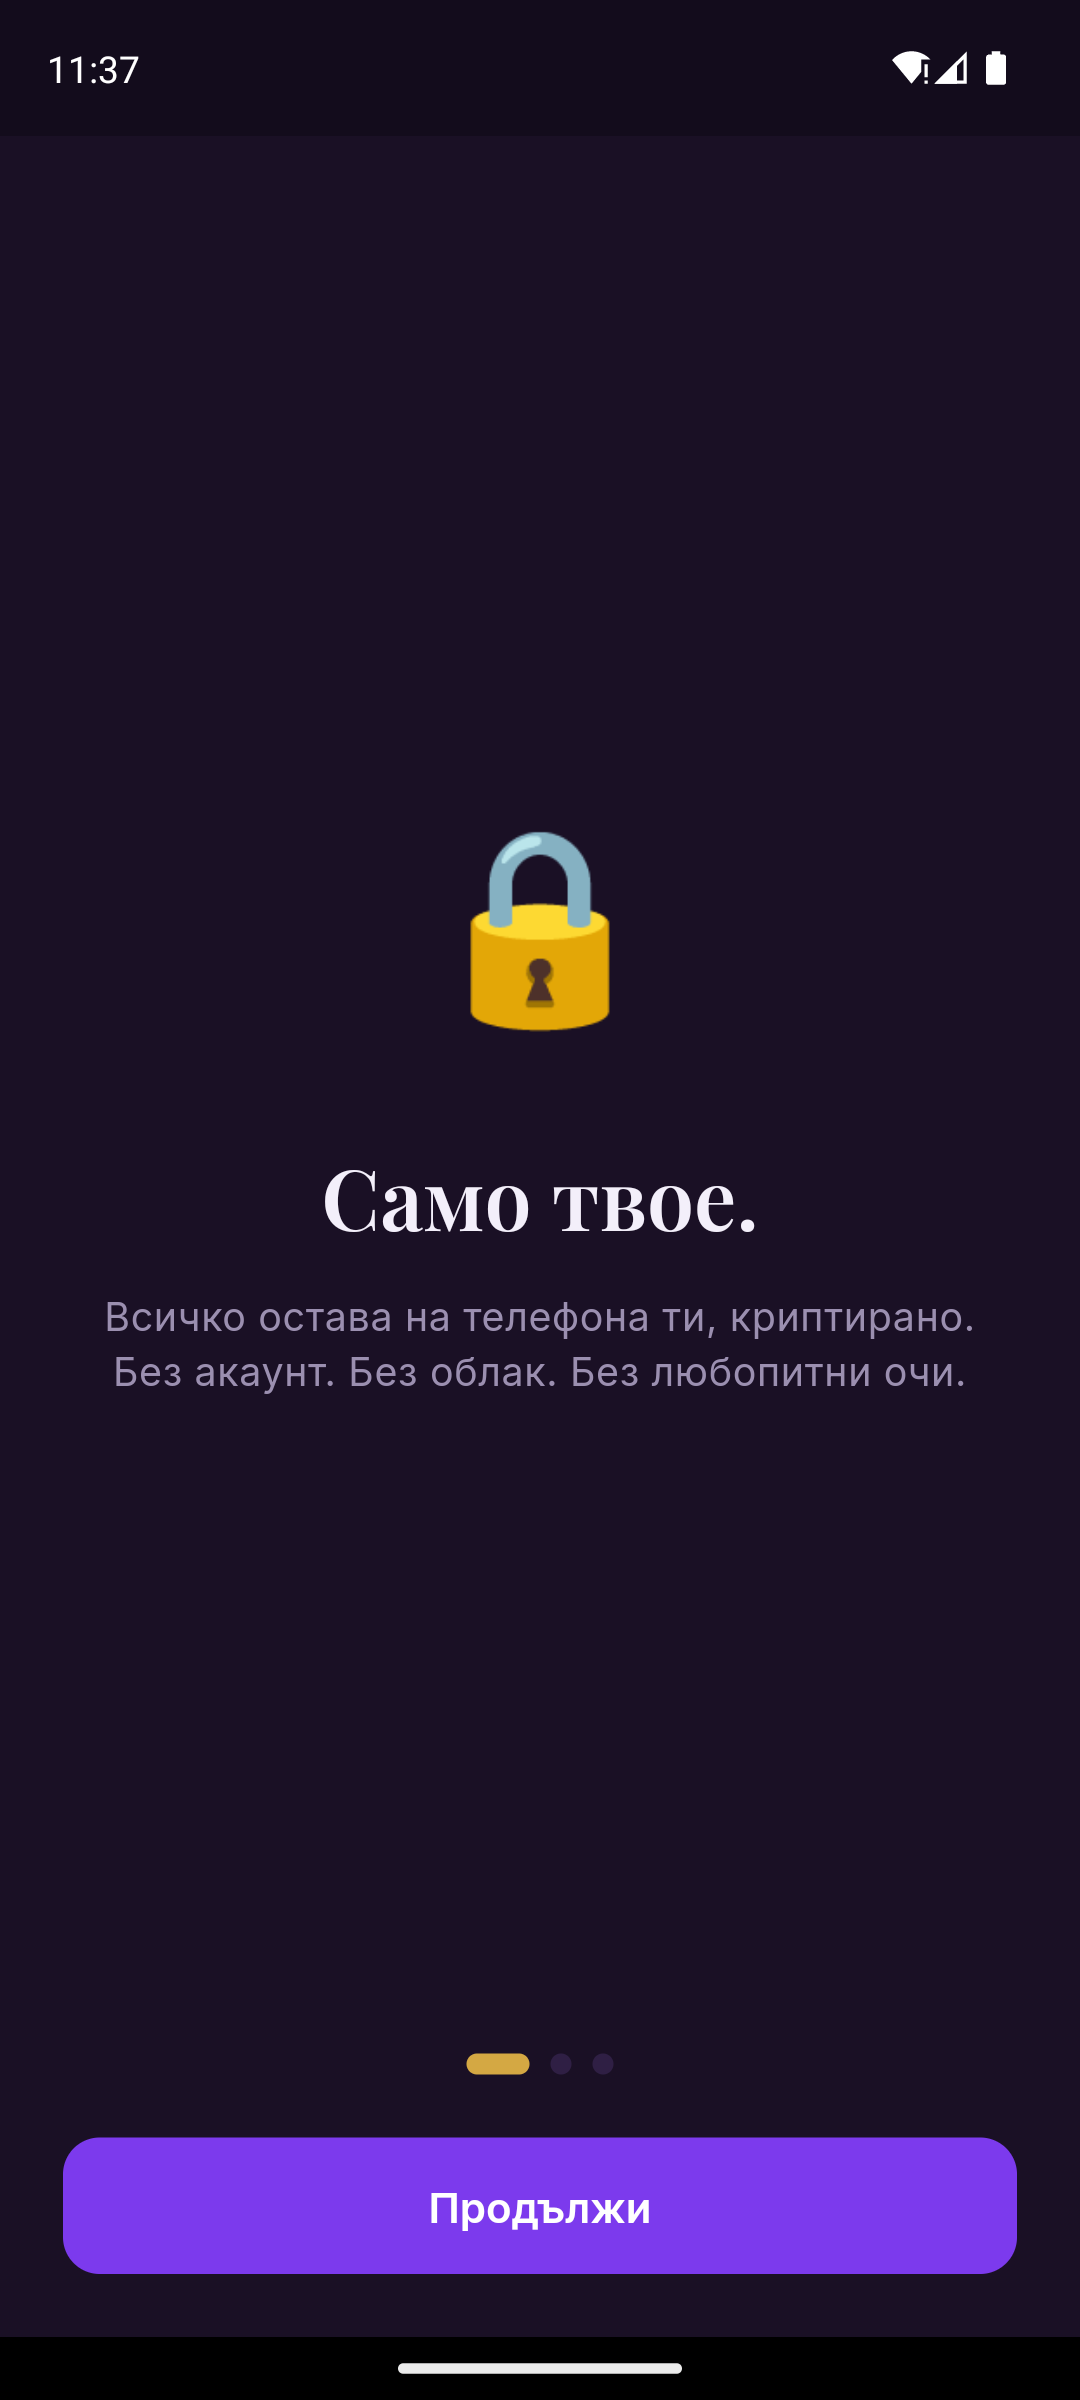
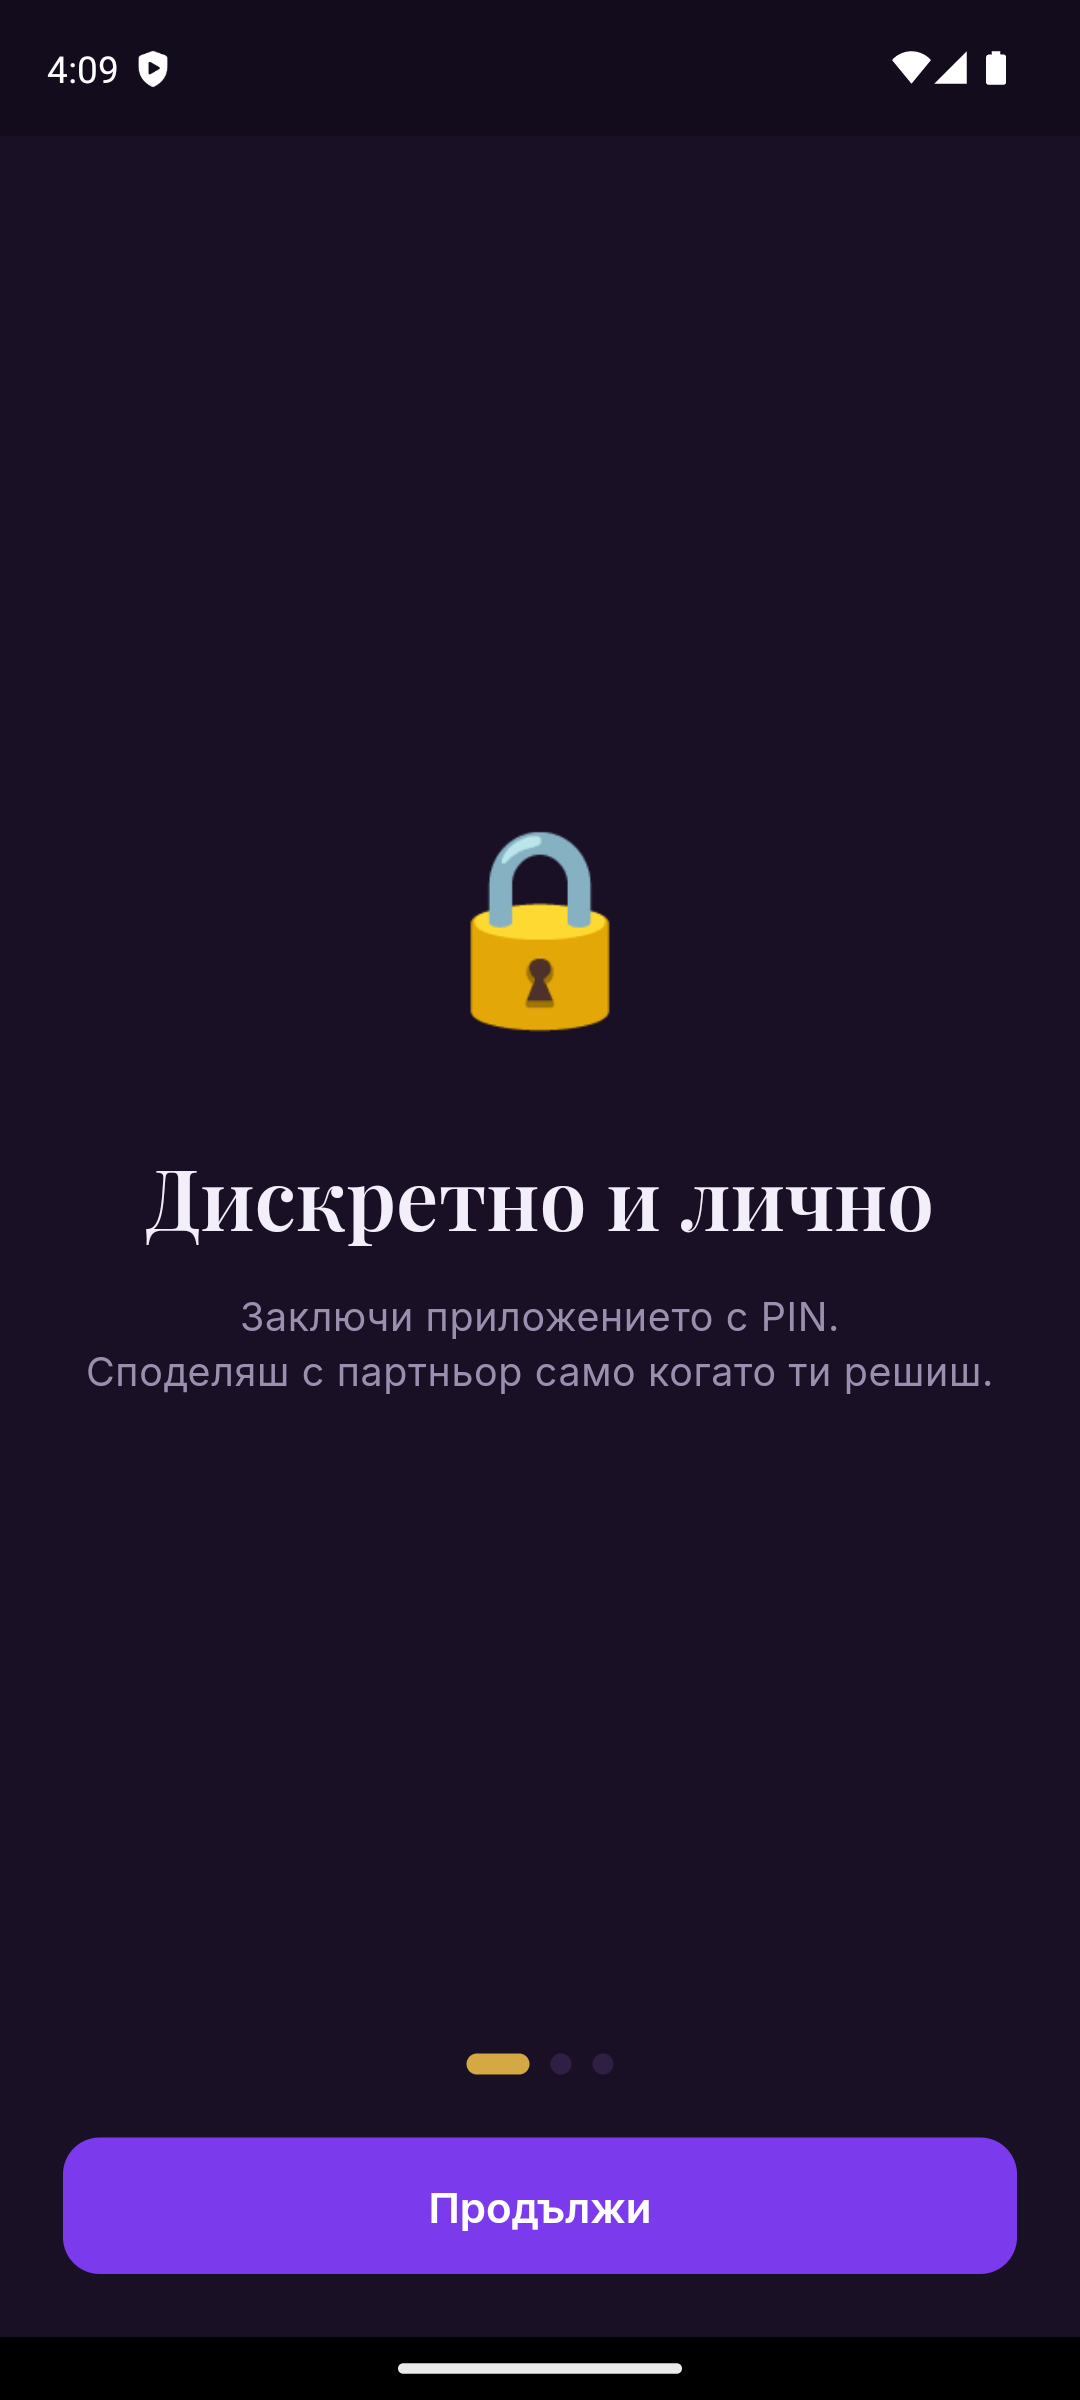
Update app changes and store assets

Changed region(s): [[0.0917, 0.4688, 0.9167, 0.5938], [0.1222, 0.0, 0.1528, 0.0312]]

diff --git a/app/lib/data/diary_repository.dart b/app/lib/data/diary_repository.dart
@@ -65,16 +65,15 @@ class DiaryRepository {
 
   Future<void> delete(DiaryEntryRow row) async {
     if (appLock.decoyActive) return;
-    final photos = decodeStringList(row.photos);
-    for (final path in [
-      ...photos,
+    // Сървърни копия има за снимките и видеата (не за аудиото).
+    final synced = [
+      ...decodeStringList(row.photos),
       ...decodeStringList(row.videos),
-      ...decodeStringList(row.audios),
-    ]) {
+    ];
+    for (final path in [...synced, ...decodeStringList(row.audios)]) {
       await deletePhotoFile(path);
     }
-    // Сървърни копия има само за снимките — махаме ги best-effort.
-    for (final path in photos) {
+    for (final path in synced) {
       unawaited(_mediaSync.remove(path));
     }
     await _manager.db.deleteDiaryEntry(row.id);
@@ -89,9 +88,13 @@ class DiaryRepository {
     return local;
   }
 
-  /// Копира видео в private storage (v4, Premium).
-  Future<String> importVideo(String sourcePath) =>
-      _importMedia(sourcePath, 'videos');
+  /// Копира видео в private storage (v4, Premium). Качва и копие на
+  /// сървъра (фоново, best-effort).
+  Future<String> importVideo(String sourcePath) async {
+    final local = await _importMedia(sourcePath, 'videos');
+    if (!appLock.decoyActive) unawaited(_mediaSync.upload(local));
+    return local;
+  }
 
   /// Копира аудио бележка в private storage (v5, Premium).
   Future<String> importAudio(String sourcePath) =>
@@ -116,14 +119,14 @@ class DiaryRepository {
     if (await file.exists()) await file.delete();
   }
 
-  /// Трие снимка локално И сървърното ѝ копие — за единично премахване
-  /// от редактора. (Видеата/аудиото не се качват на сървъра.)
-  Future<void> deletePhoto(String path) async {
+  /// Трие медия локално И сървърното ѝ копие — за единично премахване на
+  /// снимка или видео от редактора. (Аудиото не се качва на сървъра.)
+  Future<void> deleteSyncedMedia(String path) async {
     await deletePhotoFile(path);
     if (!appLock.decoyActive) unawaited(_mediaSync.remove(path));
   }
 
-  /// GDPR: маха всички сървърни копия на снимките от дневника.
+  /// GDPR: маха всички сървърни копия на снимките и видеата от дневника.
   Future<void> removeAllServerMedia() => _mediaSync.removeAllForUser();
 
   /// „Спомен от преди време" — най-скорошният запис отпреди поне

diff --git a/app/test/widget_test.dart b/app/test/widget_test.dart
@@ -79,6 +79,10 @@ void main() {
     await tester.tap(find.byIcon(Icons.chevron_left));
     await tester.pump();
     expect(find.text('Декември 2026'), findsOneWidget);
+
+    // Успокояваме всичко висящо (async четения от базата), за да не
+    // изтече състояние в следващия тест.
+    await tester.pumpAndSettle();
   });
 
   testWidgets('Diary editor: шаблони, тагове и действия', (
@@ -103,6 +107,10 @@ void main() {
         scrollable: scrollable);
     expect(find.text('Добави снимка'), findsOneWidget);
 
+    // scrollUntilVisible може да спре „Нов таг" точно на долния ръб, където
+    // тапът не уцелва — ensureVisible го вкарва изцяло във виждане.
+    await tester.ensureVisible(find.text('Нов таг'));
+    await tester.pumpAndSettle();
     await tester.tap(find.text('Нов таг'));
     await tester.pumpAndSettle();
     await tester.enterText(find.byType(TextField).last, 'пътуване');

diff --git a/app/lib/features/diary/diary_editor_screen.dart b/app/lib/features/diary/diary_editor_screen.dart
@@ -268,7 +268,7 @@ class _DiaryEditorScreenState extends State<DiaryEditorScreen> {
       return;
     }
     // Снимките имат сървърно копие — трием и него.
-    await diaryRepository.deletePhoto(_photos[index]);
+    await diaryRepository.deleteSyncedMedia(_photos[index]);
     if (mounted) setState(() => _photos.removeAt(index));
   }
 
@@ -276,7 +276,8 @@ class _DiaryEditorScreenState extends State<DiaryEditorScreen> {
     if (!await _confirmRemoval(_l10n.removeVideoTitle, _l10n.removeVideoBody)) {
       return;
     }
-    await diaryRepository.deletePhotoFile(_videos[index]);
+    // Видеата имат сървърно копие — трием и него.
+    await diaryRepository.deleteSyncedMedia(_videos[index]);
     if (mounted) setState(() => _videos.removeAt(index));
   }
 

diff --git a/app/lib/l10n/app_localizations.dart b/app/lib/l10n/app_localizations.dart
@@ -1307,7 +1307,7 @@ abstract class AppLocalizations {
   /// No description provided for @aboutDataBody.
   ///
   /// In bg, this message translates to:
-  /// **'Записите в дневника, календара и инсайтите се пазят криптирани на това устройство и може да се заключат с PIN.\n\nСнимките, които добавяш в дневника, се качват и на нашите сървъри като лично копие — вижда ги само твоят профил, а за сигурност може да бъдат преглеждани от нас.\n\nКогато се свържеш с партньор, споделените съобщения, снимки и видеа се пазят на нашите сървъри, за да стигат до партньора, и може да бъдат преглеждани за сигурност. Прекъсването на връзката премахва активната партньорска връзка и чат записите; пълно server-side изтриване може да се поиска през privacy контакта.\n\nПълните подробности са в Политиката за поверителност.'**
+  /// **'Записите в дневника, календара и инсайтите се пазят криптирани на това устройство и може да се заключат с PIN.\n\nСнимките и видеата, които добавяш в дневника, се качват и на нашите сървъри като лично копие — вижда ги само твоят профил, а за сигурност може да бъдат преглеждани от нас.\n\nКогато се свържеш с партньор, споделените съобщения, снимки и видеа се пазят на нашите сървъри, за да стигат до партньора, и може да бъдат преглеждани за сигурност. Прекъсването на връзката премахва активната партньорска връзка и чат записите; пълно server-side изтриване може да се поиска през privacy контакта.\n\nПълните подробности са в Политиката за поверителност.'**
   String get aboutDataBody;
 
   /// No description provided for @close.

diff --git a/app/lib/l10n/app_localizations_bg.dart b/app/lib/l10n/app_localizations_bg.dart
@@ -704,7 +704,7 @@ class AppLocalizationsBg extends AppLocalizations {
 
   @override
   String get aboutDataBody =>
-      'Записите в дневника, календара и инсайтите се пазят криптирани на това устройство и може да се заключат с PIN.\n\nСнимките, които добавяш в дневника, се качват и на нашите сървъри като лично копие — вижда ги само твоят профил, а за сигурност може да бъдат преглеждани от нас.\n\nКогато се свържеш с партньор, споделените съобщения, снимки и видеа се пазят на нашите сървъри, за да стигат до партньора, и може да бъдат преглеждани за сигурност. Прекъсването на връзката премахва активната партньорска връзка и чат записите; пълно server-side изтриване може да се поиска през privacy контакта.\n\nПълните подробности са в Политиката за поверителност.';
+      'Записите в дневника, календара и инсайтите се пазят криптирани на това устройство и може да се заключат с PIN.\n\nСнимките и видеата, които добавяш в дневника, се качват и на нашите сървъри като лично копие — вижда ги само твоят профил, а за сигурност може да бъдат преглеждани от нас.\n\nКогато се свържеш с партньор, споделените съобщения, снимки и видеа се пазят на нашите сървъри, за да стигат до партньора, и може да бъдат преглеждани за сигурност. Прекъсването на връзката премахва активната партньорска връзка и чат записите; пълно server-side изтриване може да се поиска през privacy контакта.\n\nПълните подробности са в Политиката за поверителност.';
 
   @override
   String get close => 'Затвори';

diff --git a/app/lib/l10n/app_localizations_en.dart b/app/lib/l10n/app_localizations_en.dart
@@ -706,7 +706,7 @@ class AppLocalizationsEn extends AppLocalizations {
 
   @override
   String get aboutDataBody =>
-      'Your diary, calendar and insights are stored encrypted on this device and can be locked with a PIN.\n\nPhotos you add to your diary are also uploaded to our servers as a private copy — only your account can see them, and they may be reviewed by us for safety.\n\nWhen you connect with a partner, shared messages, photos and videos are stored on our servers so they reach your partner, and may be reviewed for safety. Unlinking removes the active partner connection and chat records; full server-side deletion can be requested through the privacy contact.\n\nFull details are in the Privacy Policy.';
+      'Your diary, calendar and insights are stored encrypted on this device and can be locked with a PIN.\n\nPhotos and videos you add to your diary are also uploaded to our servers as a private copy — only your account can see them, and they may be reviewed by us for safety.\n\nWhen you connect with a partner, shared messages, photos and videos are stored on our servers so they reach your partner, and may be reviewed for safety. Unlinking removes the active partner connection and chat records; full server-side deletion can be requested through the privacy contact.\n\nFull details are in the Privacy Policy.';
 
   @override
   String get close => 'Close';

diff --git a/app/tool/generate_feature_graphic_test.dart b/app/tool/generate_feature_graphic_test.dart
@@ -121,7 +121,7 @@ void main() {
       );
       _drawText(
         canvas,
-        'Интимен календар и дневник.\nКриптиран. Без акаунт. Само твой.',
+        'Private cycle diary.\nEncrypted. Discreet.',
         const Offset(486, 290),
         const TextStyle(
           fontFamily: 'Inter',